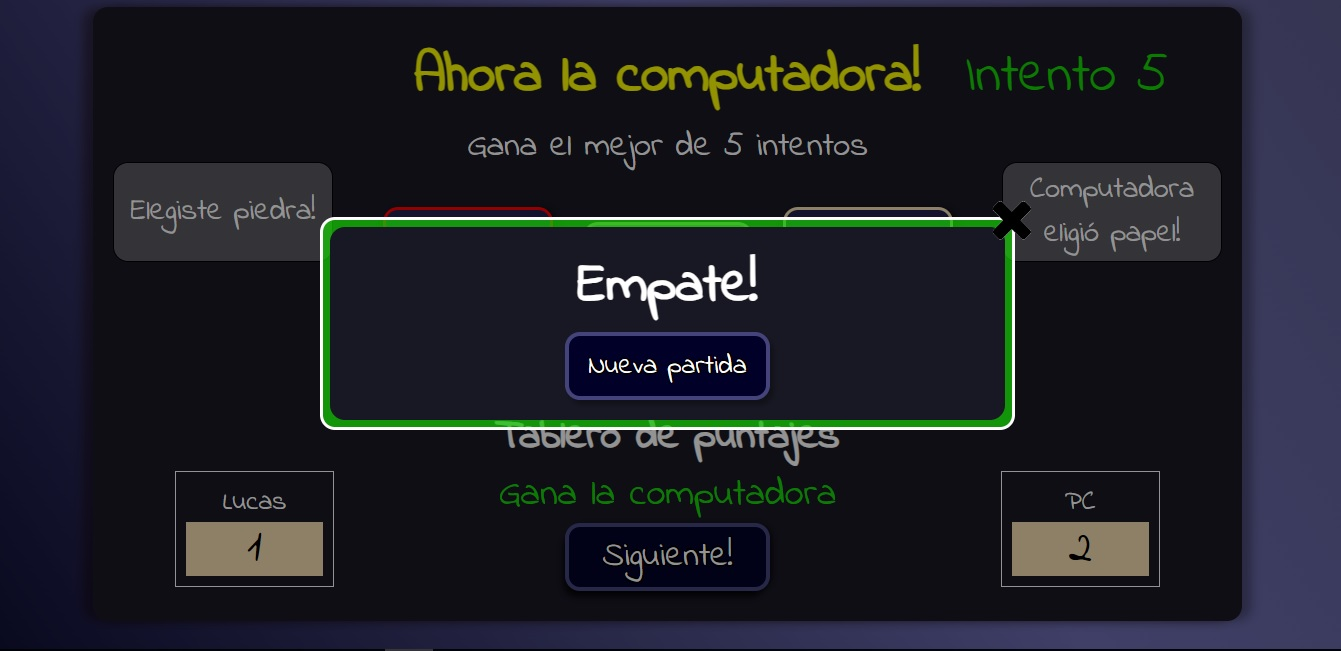
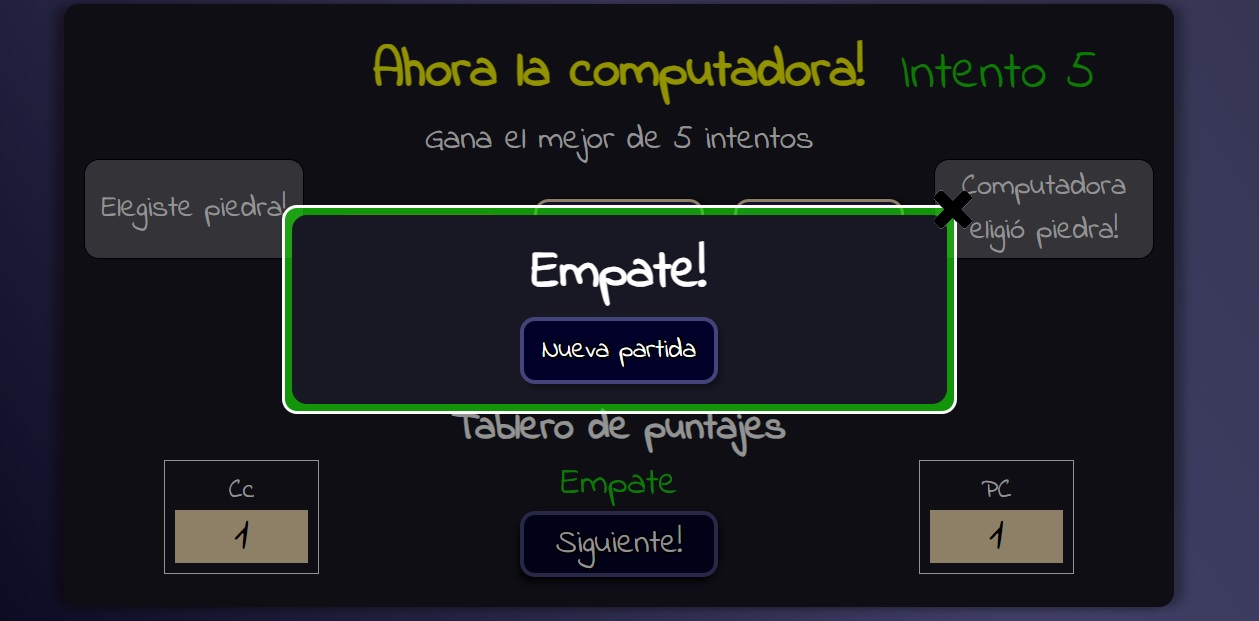
modifico README - agrego funciones resultadoDeIntento() y useEffect()

diff --git a/src/App.js b/src/App.js
@@ -1,5 +1,5 @@
 import IngresaNombre from './componentes/IngresaNombre';
-import { useState } from 'react';
+import { useState, useEffect } from 'react';
 import Juego from './componentes/Juego';
 import TableroPuntaje from './componentes/TableroPuntaje';
 import Resultado from './componentes/Resultado' 
@@ -113,42 +113,10 @@ const [finalizoPartida, setFinalizoPartida] = useState(false);
         setEleccionPc('Computadora eligió tijera!');
         setPcTijera(true);
       }
+      
+      //Funcion para determinar el resultado de cada intento
+      resultadoDeIntento()
 
-      //Logica para determinar resultado de cada intento
-      if (valorEleccionPc === valorEleccionJugador) {
-        setGanadorIntento ("Empate");
-        setMostrarResultadoIntento(true);   
-      } else if ((valorEleccionPc === 0 && valorEleccionJugador === 2) || 
-      (valorEleccionPc === 1 && valorEleccionJugador === 0) ||
-      (valorEleccionPc === 2 && valorEleccionJugador === 1)) {
-        setPc(pc + 1);
-        setGanadorIntento ("Gana la computadora"); 
-        setMostrarResultadoIntento(true);
-      } else {
-        setJugador(jugador + 1);
-        setMostrarResultadoIntento(true); //Este cambio de estado muestra el resultado del intento en pantalla y me permite neutralizar el boton siguiente una vez que se muestra
-        setGanadorIntento ("Gana el usuario");
-      } 
-      
-      //Logica de finalizacion de juego, con maximo de 5 intento o acumulacion de 3 victoria.
-      
-      if (numDeIntento === 5 || jugador === 2 || pc === 2) { //Para que termine la partida a la 3er victoria
-        setNeutralizarBotonSiguiente(true); //Neutralizo el boton siguiente intento para evitar que se presione antes de que aparezca ventana modal
-        
-        //Logica para determinar resultado final
-        if (jugador === pc) {
-          setResultadoFinal("Empate!");
-        } else if (jugador > pc) {
-          setResultadoFinal("Ganaste!");
-        } else {
-          setResultadoFinal("Perdiste!");
-        }
-        setTimeout(() => {
-          setFinalizoPartida(true); //Me permite mostrar ventana modal con un delay de 1s
-        }, 1000);
-      } else {
-        setNeutralizarBotonSiguiente(false);
-      }  
     }, 2000)
   }
 
@@ -179,44 +147,8 @@ const [finalizoPartida, setFinalizoPartida] = useState(false);
         setPcTijera(true);
       }
 
-      //Logica para determinar resultado de cada intento
-      if (valorEleccionPc === valorEleccionJugador) {
-        setGanadorIntento ("Empate");
-        setMostrarResultadoIntento(true);   
-      } else if ((valorEleccionPc === 0 && valorEleccionJugador === 2) || 
-      (valorEleccionPc === 1 && valorEleccionJugador === 0) ||
-      (valorEleccionPc === 2 && valorEleccionJugador === 1)) {
-        setPc(pc + 1);
-        setGanadorIntento ("Gana la computadora"); 
-        setMostrarResultadoIntento(true);
-      } else {
-        setJugador(jugador + 1);
-        setMostrarResultadoIntento(true); //Este cambio de estado muestra el resultado del intento en pantalla y me permite neutralizar el boton siguiente una vez que se muestra
-        setGanadorIntento ("Gana el usuario");
-      } 
-
-      console.log(jugador, pc)
-      //Logica de finalizacion de juego, con maximo de 5 intento o acumulacion de 3 victorias
-      
-      if (numDeIntento === 5 || jugador === 3 || pc === 3) { 
-        setNeutralizarBotonSiguiente(true); //Neutralizo el boton siguiente intento para evitar que se presione antes de que aparezca ventana modal
-        
-        //Logica para determinar resultado final
-        console.log (jugador, pc)
-
-        if (jugador === pc) {
-          setResultadoFinal("Empate!");
-        } else if (jugador > pc) {
-          setResultadoFinal("Ganaste!");
-        } else {
-          setResultadoFinal("Perdiste!");
-        }
-        setTimeout(() => {
-          setFinalizoPartida(true); //Me permite mostrar ventana modal con un delay de 1s
-        }, 1000);
-      } else {
-        setNeutralizarBotonSiguiente(false);
-      }  
+      //Funcion para determinar el resultado de cada intento
+      resultadoDeIntento()
     }, 2000)
   }
 
@@ -250,46 +182,32 @@ const [finalizoPartida, setFinalizoPartida] = useState(false);
         setPcTijera(true);
       }
 
-      //Logica para determinar resultado de cada intento
-      if (valorEleccionPc === valorEleccionJugador) {
-        setGanadorIntento ("Empate");
-        setMostrarResultadoIntento(true);   
-      } else if ((valorEleccionPc === 0 && valorEleccionJugador === 2) || 
-      (valorEleccionPc === 1 && valorEleccionJugador === 0) ||
-      (valorEleccionPc === 2 && valorEleccionJugador === 1)) {
-        setPc(pc + 1);
-        setGanadorIntento ("Gana la computadora"); 
-        setMostrarResultadoIntento(true);
-      } else {
-        setJugador(jugador + 1);
-        setMostrarResultadoIntento(true); //Este cambio de estado muestra el resultado del intento en pantalla y me permite neutralizar el boton siguiente una vez que se muestra
-        setGanadorIntento ("Gana el usuario");
-      }
+      resultadoDeIntento()
+    
 
-      console.log(jugador, pc)
-      //  Logica de finalizacion de juego, con maximo de 5 intento o acumulacion de 3 victorias
-
-      if (numDeIntento === 5 || jugador === 3 || pc === 3) { 
-        setNeutralizarBotonSiguiente(true); //Neutralizo el boton siguiente intento para evitar que se presione antes de que aparezca ventana modal
-        
-        //Logica para determinar resultado final
-
-        if (jugador === pc) {
-          setResultadoFinal("Empate!");
-        } else if (jugador > pc) {
-          setResultadoFinal("Ganaste!");
-        } else {
-          setResultadoFinal("Perdiste!");
-        }
-
-        setTimeout(() => {
-          setFinalizoPartida(true); //Me permite mostrar ventana modal con un delay de 1s
-        }, 1000);
-      } else {
-        setNeutralizarBotonSiguiente(false);
-      }  
     }, 2000);
   }
+
+  //Logica para determinar resultado de cada intento
+
+  const resultadoDeIntento = () => {
+    if (valorEleccionPc === valorEleccionJugador) {
+      setGanadorIntento ("Empate");
+      setMostrarResultadoIntento(true);   
+    } else if ((valorEleccionPc === 0 && valorEleccionJugador === 2) || 
+    (valorEleccionPc === 1 && valorEleccionJugador === 0) ||
+    (valorEleccionPc === 2 && valorEleccionJugador === 1)) {
+      setPc(pc => pc + 1);
+      setGanadorIntento ("Gana la computadora"); 
+      setMostrarResultadoIntento(true);
+    } else {
+      setJugador(jugador => jugador + 1);
+      setMostrarResultadoIntento(true); //Este cambio de estado muestra el resultado del intento en pantalla y me permite neutralizar el boton siguiente una vez que se muestra
+      setGanadorIntento ("Gana el usuario");
+    }
+  }
+    
+
 
   //Creo la función que contiene la logica del boton siguiente Intento
 
@@ -320,7 +238,32 @@ const [finalizoPartida, setFinalizoPartida] = useState(false);
       setPcTijera(false);
     }
   }
-  
+
+  //  Logica de finalizacion de juego, con maximo de 5 intento o acumulacion de 3 victorias
+
+  useEffect(() => {
+    console.log(jugador, pc, numDeIntento); //! Pruebo ultimos valores de las tres variables
+
+    if (numDeIntento <  6 || jugador === 3|| pc === 3) { //Para que termine la partida a la 3er victoria
+      setNeutralizarBotonSiguiente(true); //Neutralizo el boton siguiente intento para evitar que se presione antes de que aparezca ventana modal
+      //Logica para determinar resultado final
+      if (jugador === pc) {
+        setResultadoFinal("Empate!");
+      } else if (jugador > pc) {
+        setResultadoFinal("Ganaste!");
+      } else {
+        setResultadoFinal("Perdiste!");
+      }
+
+      setTimeout(() => {
+        setFinalizoPartida(true); //Me permite mostrar ventana modal con un delay de 1s
+      }, 500);
+    } else {
+      setNeutralizarBotonSiguiente(false);
+    } 
+  }, [pc, jugador, numDeIntento])
+
+
   const manejarNuevaPartida = () => {
     setNumDeIntento(1);
     setJugador(0);
@@ -398,7 +341,6 @@ const [finalizoPartida, setFinalizoPartida] = useState(false);
           manejarSiguienteIntento={manejarSiguienteIntento}
           valorEleccionJugador = {valorEleccionJugador}
           valorEleccionPc={valorEleccionPc} 
-          //Podría no necesitarse este estado  utilizar directamente eligio?
           mostrarResultadoIntento={mostrarResultadoIntento}
           neutralizarBotonSiguiente={neutralizarBotonSiguiente} />
 

diff --git a/README.md b/README.md
@@ -9,7 +9,7 @@ Una vez iniciada la partida en la esquina derecha en color verde figura el numer
 
 Una vez que la computadora ingreso su elección el conteo de puntos se muestran en el tablero de puntajes, donde aparecerá el nombre del usuario. 
 
-Al finalizar cada intento se emite un mensaje central en el tablero donde se muestra un mensaje con el resultado de ese intento. También aparece un boton que se deberá presionar para pasar al siguiente intento. 
+Al finalizar cada intento se emite un mensaje central en el tablero donde se muestra el resultado de ese intento. También aparece un boton que se deberá presionar para pasar al siguiente intento. 
 
 ## Uso
 ![Imagen1](https://github.com/Andrea2907G/practico3/blob/main/public/img1.jpg?raw=true)
@@ -22,7 +22,7 @@ Al finalizar cada intento se emite un mensaje central en el tablero donde se mue
 
 ![Imagen4](https://github.com/Andrea2907G/practico3/blob/main/public/img4.jpg?raw=true)
 
-3. Una vez que se actualiza el tablero de puntaje. Se indicará que inicia la segunda partida. La secuencia se repite hasta alcanzar 5 intentos, o cuando uno de los dos contricantes alcance 3 victorias.
+3. Una vez que se actualiza el tablero de puntaje se indicará que inicia la segunda partida. La secuencia se repite hasta alcanzar 5 intentos, o cuando uno de los dos contricantes alcance 3 victorias.
 
 
 4. Al finalizar la partida se emite un mensaje central que informa el resultado: Empate! Perdiste! o Ganaste! Y se da la opción de volver a jugar, o cerrar la ventana sin volver a jugar.
